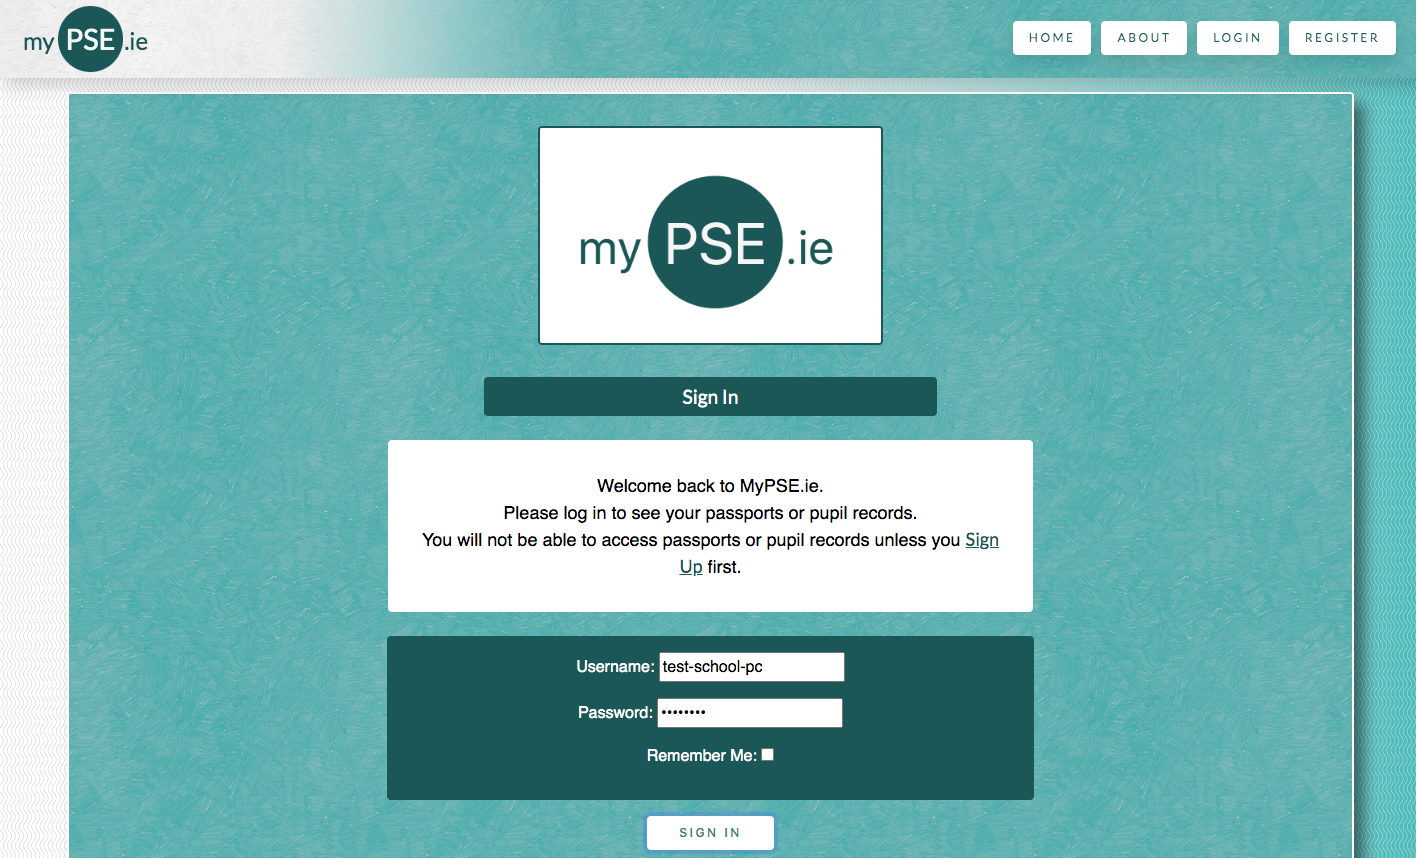
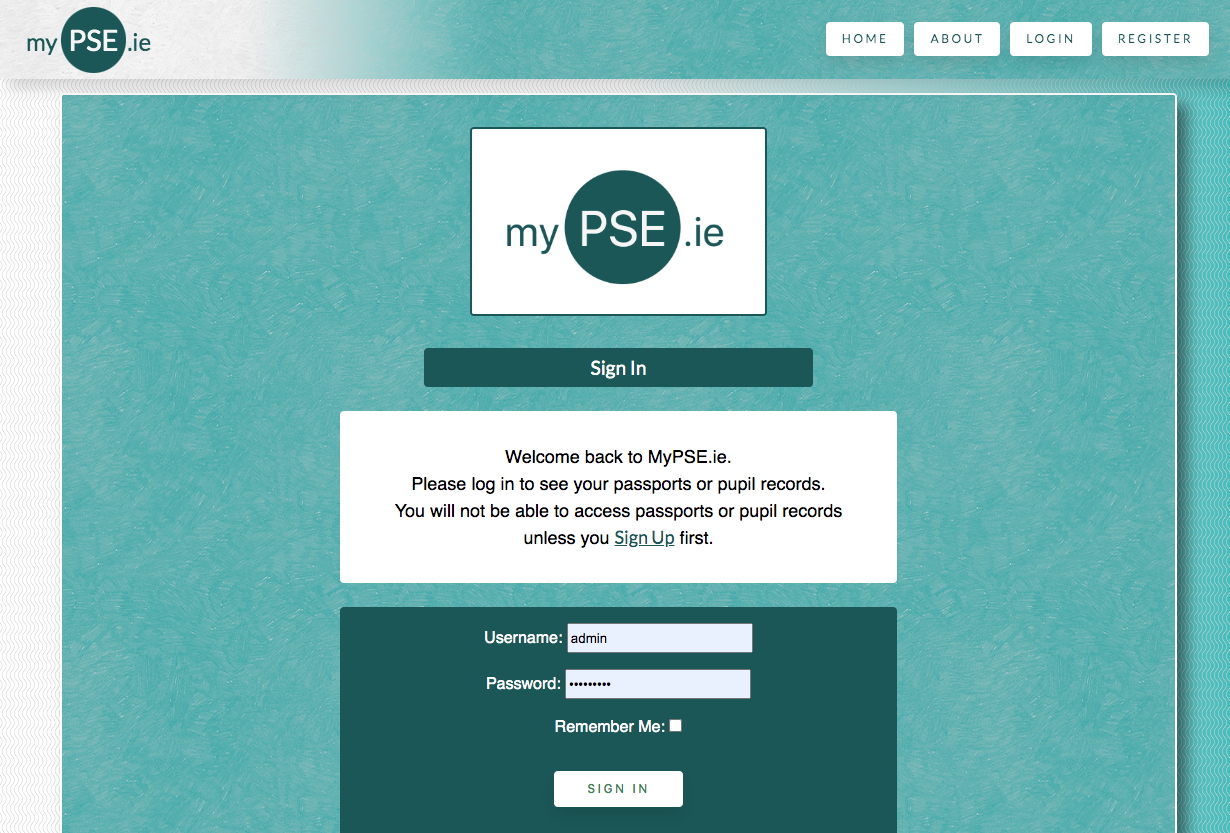
style: Add comment code and indentation to account templates

diff --git a/templates/passport/enrolledpupil_confirm_delete.html b/templates/passport/enrolledpupil_confirm_delete.html
@@ -2,15 +2,23 @@
 {% load static %}
 {% block content %}
 
+<!-- Ensures page has not been accessed directly by URL -->
+
 {% if "mypse" in request.META.HTTP_REFERER %}
+
+    <!-- Pupil record delete page warning logo and text content -->
+
 <div class="container-fluid list-heading">
     <div>&nbsp;
         <div class="row">
             <div>
                 <img class="warning-logo" src="https://res.cloudinary.com/djck2eqxo/image/upload/v1668002468/kisspng-vector-graphics-warning-sign-clip-art-illustration-5d2c40d1540a65.6649287915631812653442_ietfhg.png" alt="Warning Logo">
             </div>
+
+            <!-- Pupil record delete form -->
+            
             <div class="col-12">
-                <section class="warning-heading">
+                <div class="warning-heading">
                     <h1 class="list-text">***WARNING***</h1>
                     <form method="POST" action="#">
                         {% csrf_token %}
@@ -19,23 +27,32 @@
                         <input type="submit" value="Delete" class="btn btn-lg btn-danger">
                         <a href="{{request.META.HTTP_REFERER}}" class="btn btn-lg btn-success">Go Back</a>
                     </form>
-                </section>
+                </div>
             </div>
         </div>
     </div>
 </div>
+
+<!-- If the page has been accessed via direct URL input show this instead! -->
+
 {% else %}
-        <section class="warning-heading">
-            <div>
-                <img class="warning-logo" src="https://res.cloudinary.com/djck2eqxo/image/upload/v1668002468/kisspng-vector-graphics-warning-sign-clip-art-illustration-5d2c40d1540a65.6649287915631812653442_ietfhg.png" alt="Warning Logo">
-            </div>
-            <h1 class="list-text">***WARNING***</h1>
-                <p>Warning! 
-                    You are unauthorised to view this page! 
-                    You have navigated to this page from an unauthorised url or your user role is unauthorised to view this page.
-                    <br>
-                    Please visit the <a href="{% url 'about' %}">about page</a>  for more information about how to use this site.</p>
-                <a href="{% url 'home' %}" class="btn btn-lg btn-success">Click Here to visit the MyPSE.ie Home page</a>
-        </section>
-        {% endif %} 
+
+<!-- Unauthorised access warning logo and text content -->
+
+<div class="warning-heading">
+    <div>
+        <img class="warning-logo" src="https://res.cloudinary.com/djck2eqxo/image/upload/v1668002468/kisspng-vector-graphics-warning-sign-clip-art-illustration-5d2c40d1540a65.6649287915631812653442_ietfhg.png" alt="Warning Logo">
+    </div>
+
+    <h1 class="list-text">***WARNING***</h1>
+        <p>Warning! 
+            You are unauthorised to view this page! 
+            You have navigated to this page from an unauthorised url or your user role is unauthorised to view this page.
+            <br>
+            Please visit the <a href="{% url 'about' %}">about page</a>  for more information about how to use this site.</p>
+
+        <a href="{% url 'home' %}" class="btn btn-lg btn-success">Click Here to visit the MyPSE.ie Home page</a>
+</div>
+
+{% endif %} 
 {% endblock %}

diff --git a/templates/account/signup.html b/templates/account/signup.html
@@ -5,14 +5,19 @@
 {% block head_title %}{% trans "Signup" %}{% endblock %}
 
 {% block content %}
+
+    <!-- Registration form heading logo and text container-->
+
 <div class="container form-container">
     <div class="row form-row">
         <div>
             <img class="auth-logo" src="https://res.cloudinary.com/djck2eqxo/image/upload/v1667574694/Screen_Shot_2022-11-04_at_14.47.38_abnb4u.png" alt="MyPSE.ie Logo">
         </div>
+
         <div class="col-md-8 mt-3 offset-md-2">
             <h2 class="passport-title">{% trans "Sign Up" %}</h2>
         </div>
+
         <div class="row form-text-row">
             <p class="list-text">{% blocktrans %}Welcome to MyPSE.ie. 
                 <br> 
@@ -24,21 +29,23 @@
                 <p class="list-text">Visit the <a href="{% url 'about' %}">ABOUT</a> page for more information</p>
         </div>         
     </div>
+
+    <!-- Custom Registration form ** user can choose between four user roles -->
+
     <div class="row form-row">
         <div class="form-center">
             <div class="login">
-            <form id="signup_form" method="post" action="{% url 'account_signup' %}">
-                {% csrf_token %}
-                {{ form.as_p }}
-                {% if redirect_field_value %}
-                <input type="hidden" name="{{ redirect_field_name }}" value="{{ redirect_field_value }}" />
-                {% endif %}
+                <form id="signup_form" method="post" action="{% url 'account_signup' %}">
+                    {% csrf_token %}
+                    {{ form.as_p }}
+                    {% if redirect_field_value %}
+                    <input type="hidden" name="{{ redirect_field_name }}" value="{{ redirect_field_value }}" />
+                    {% endif %}
+                    <button class="form-passport-options" type="submit">{% trans "Sign Up" %} &raquo;</button>
+                </form>
             </div>
         </div>
-        <div class="signup-button">
-            <button class="btn btn-signup right passport-options form-center" type="submit">{% trans "Sign Up" %} &raquo;</button>
-            </form>
-        </div>
     </div>
+</div>
 
 {% endblock %}

diff --git a/templates/account/login.html b/templates/account/login.html
@@ -7,14 +7,18 @@
 
 {% block content %}
 
+    <!-- Login page logo and heading text-->
+
 <div class="container form-container">
     <div class="row form-row">
         <div>
             <img class="auth-logo" src="https://res.cloudinary.com/djck2eqxo/image/upload/v1667574694/Screen_Shot_2022-11-04_at_14.47.38_abnb4u.png" alt="MyPSE.ie Logo">
         </div>
+
         <div class="col-md-8 mt-3 offset-md-2">
             <h2 class="passport-title">{% trans "Sign In" %}</h2>
         </div>
+
         <div class="row form-text-row">
             <p class="list-text">{% blocktrans %}Welcome back to MyPSE.ie. <br> 
                 Please log in to see your passports or pupil records. <br>
@@ -23,20 +27,23 @@
                 first.{% endblocktrans %}</p>
         </div>
     </div>
+
+    <!-- Login form -->
+
     <div class="row form-row">
         <div class="col-md-8 mt-3 offset-md-2 center-align">
             <div class="login">
-            <form  method="POST" action="{% url 'account_login' %}">
-                {% csrf_token %}
-                {{ form.as_p }}
-                {% if redirect_field_value %}
-                <input type="hidden" name="{{ redirect_field_name }}" value="{{ redirect_field_value }}" />
-                {% endif %}
+                <form  method="POST" action="{% url 'account_login' %}">
+                    {% csrf_token %}
+                    {{ form.as_p }}
+                    {% if redirect_field_value %}
+                    <input type="hidden" name="{{ redirect_field_name }}" value="{{ redirect_field_value }}" />
+                    {% endif %}
+                    <button class="form-passport-options" type="submit">{% trans "Sign In" %}</button>
+                </form>
             </div>
-                <button class="btn btn-signup right passport-options" type="submit">{% trans "Sign In" %}</button>
-            
-            </form>
         </div>
     </div>
 </div>
+
 {% endblock %}

diff --git a/templates/account/logout.html b/templates/account/logout.html
@@ -5,20 +5,26 @@
 {% block head_title %}{% trans "Sign Out" %}{% endblock %}
 
 {% block content %}
+
+    <!-- Sign out page logo and Heading text-->
+
 <div class="container form-container">
     <div class="row form-row">
         <div>
             <img class="auth-logo" src="https://res.cloudinary.com/djck2eqxo/image/upload/v1667574694/Screen_Shot_2022-11-04_at_14.47.38_abnb4u.png" alt="MyPSE.ie Logo">
         </div>
+
         <div class="col-md-8 mt-3 offset-md-2">
             <h2 class="passport-title" >{% trans "Sign Out" %}</h2>
         </div>
+
         <div class="row passport-text-row">
             <p class="list-text" >{% trans 'Are you sure you want to sign out?' %}</p>
         </div>  
-        
-        
     </div>
+    
+    <!-- Sign out form -->
+
     <div class="row form-row">
         <div class="col-md-8 mt-3 offset-md-2">
             <form method="post" action="{% url 'account_logout' %}">
@@ -31,4 +37,5 @@
         </div>
     </div>
 </div>
+
 {% endblock %}

diff --git a/static/css/style.css b/static/css/style.css
@@ -480,6 +480,7 @@ label {
     background-color: #0B5657;
     border-radius: 4px;
     padding: 1rem;
+    padding-bottom: 2rem;
 }
 
 .form-text-row {
@@ -746,6 +747,29 @@ label {
     box-shadow: 0px 10px 15px rgba(185, 246, 241, 0.74);
     color: #fff;
     transform: translateY(-4px);
+}
+
+.form-passport-options {
+    margin-top: 1rem;
+    font-size: 12px;
+    padding: 0.5rem 2rem;
+    text-transform: uppercase;
+    letter-spacing: 2.5px;
+    font-weight: 500;
+    color: #198754;
+    background-color: #fff;
+    border: solid 1px #fff; 
+    border-radius: 4px;
+    box-shadow: 0px 8px 15px rgb(0 0 0 / 10%);
+    transition: all 0.3s ease 0s;
+    cursor: pointer;
+    outline: none;
+}
+
+.form-passport-options:hover {
+    background-color: #1b5757;
+    border: solid 1px white;
+    color: #fff;
 }
 
 .block-text {

diff --git a/docs/README.md b/docs/README.md
@@ -12,7 +12,7 @@ For SEN pupils, parents and school staff, periods of transition between learning
 
 It is common practice during transitions within the Irish education system, that SEN pupils provide their new place of education with a document that will allow new teachers and support workers access to vital information about their care needs, learning supports, communication difficulties and more.  
 
-Commonly referred to as 'passports', these documents can make an imemasurable difference into understanding and providing care for SEN pupils during periods of transition.
+Commonly referred to as 'passports', these documents can make an immeasurable difference into understanding and providing care for SEN pupils during periods of transition.
 
 MyPSE.ie allows authenticated and authorised pupils and parents to design, view and update passports reflecting not only each individual pupil's special educational needs, but also a nuanced overview of their personality and style. Teachers can then view the passports that have been assigned to them by entering their unique registration number issued by the Irish Teaching Council.
 
@@ -1454,7 +1454,13 @@ When creating page titles for the project I referenced the following:
 
  I consulted the summernote [documentation](https://summernote.org/deep-dive/) when customising the editor toolbar
 
- <br> 
+ <br>
+ 
+ ### Search Function
+
+ I implemented the code in this article when searching through lists of objects.
+
+https://stackoverflow.com/questions/13416502/django-search-form-in-class-based-listview
  
  ### Head Code
 
